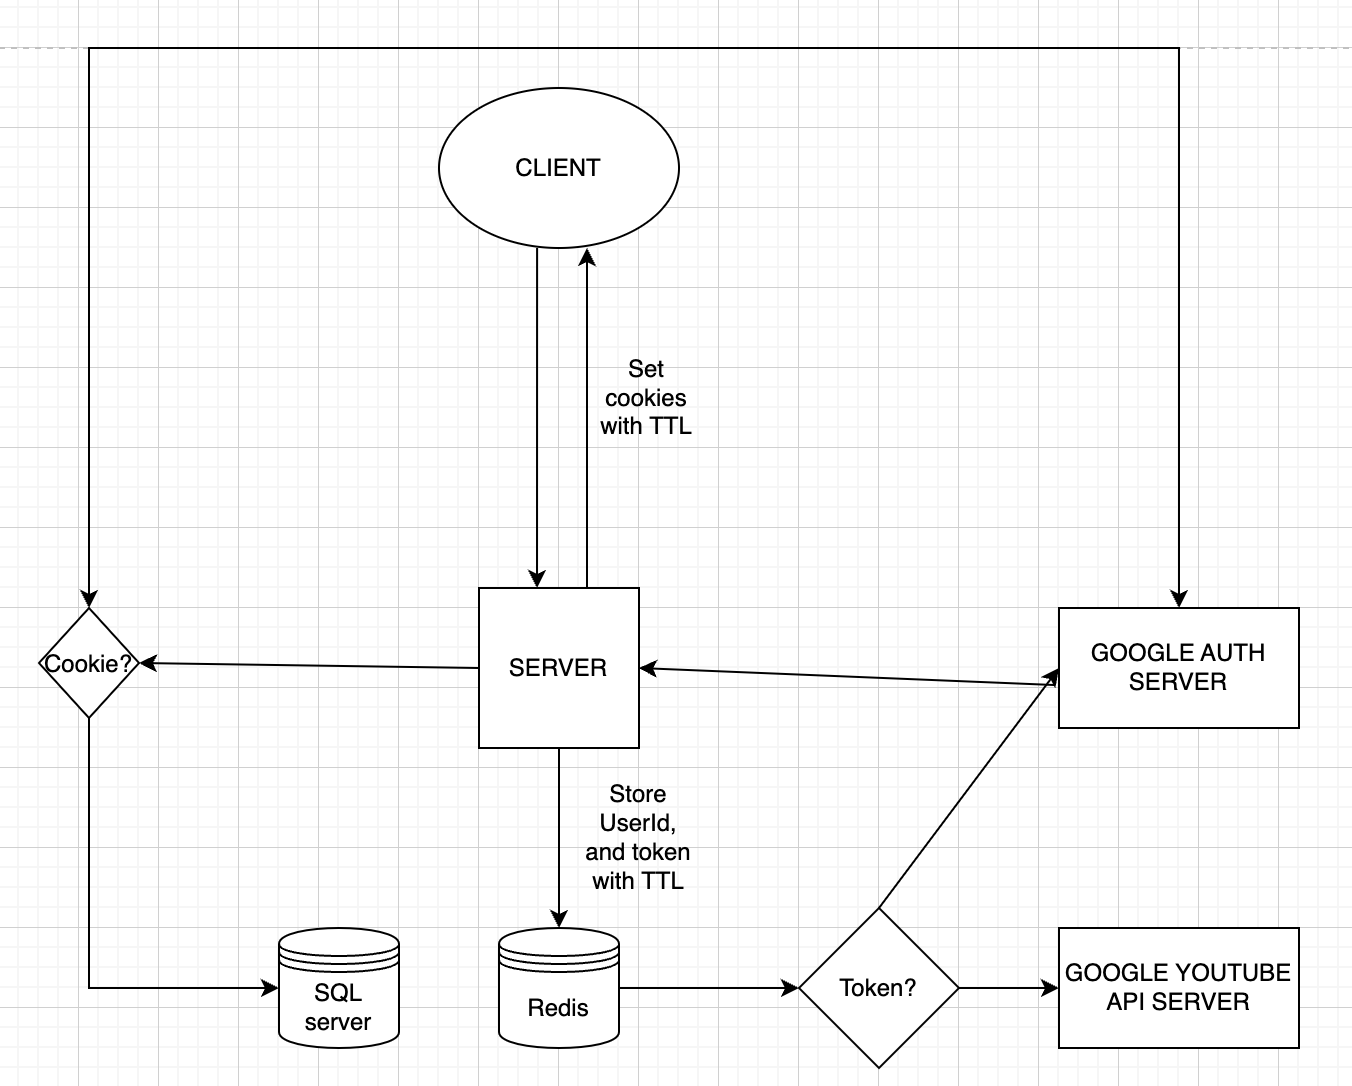
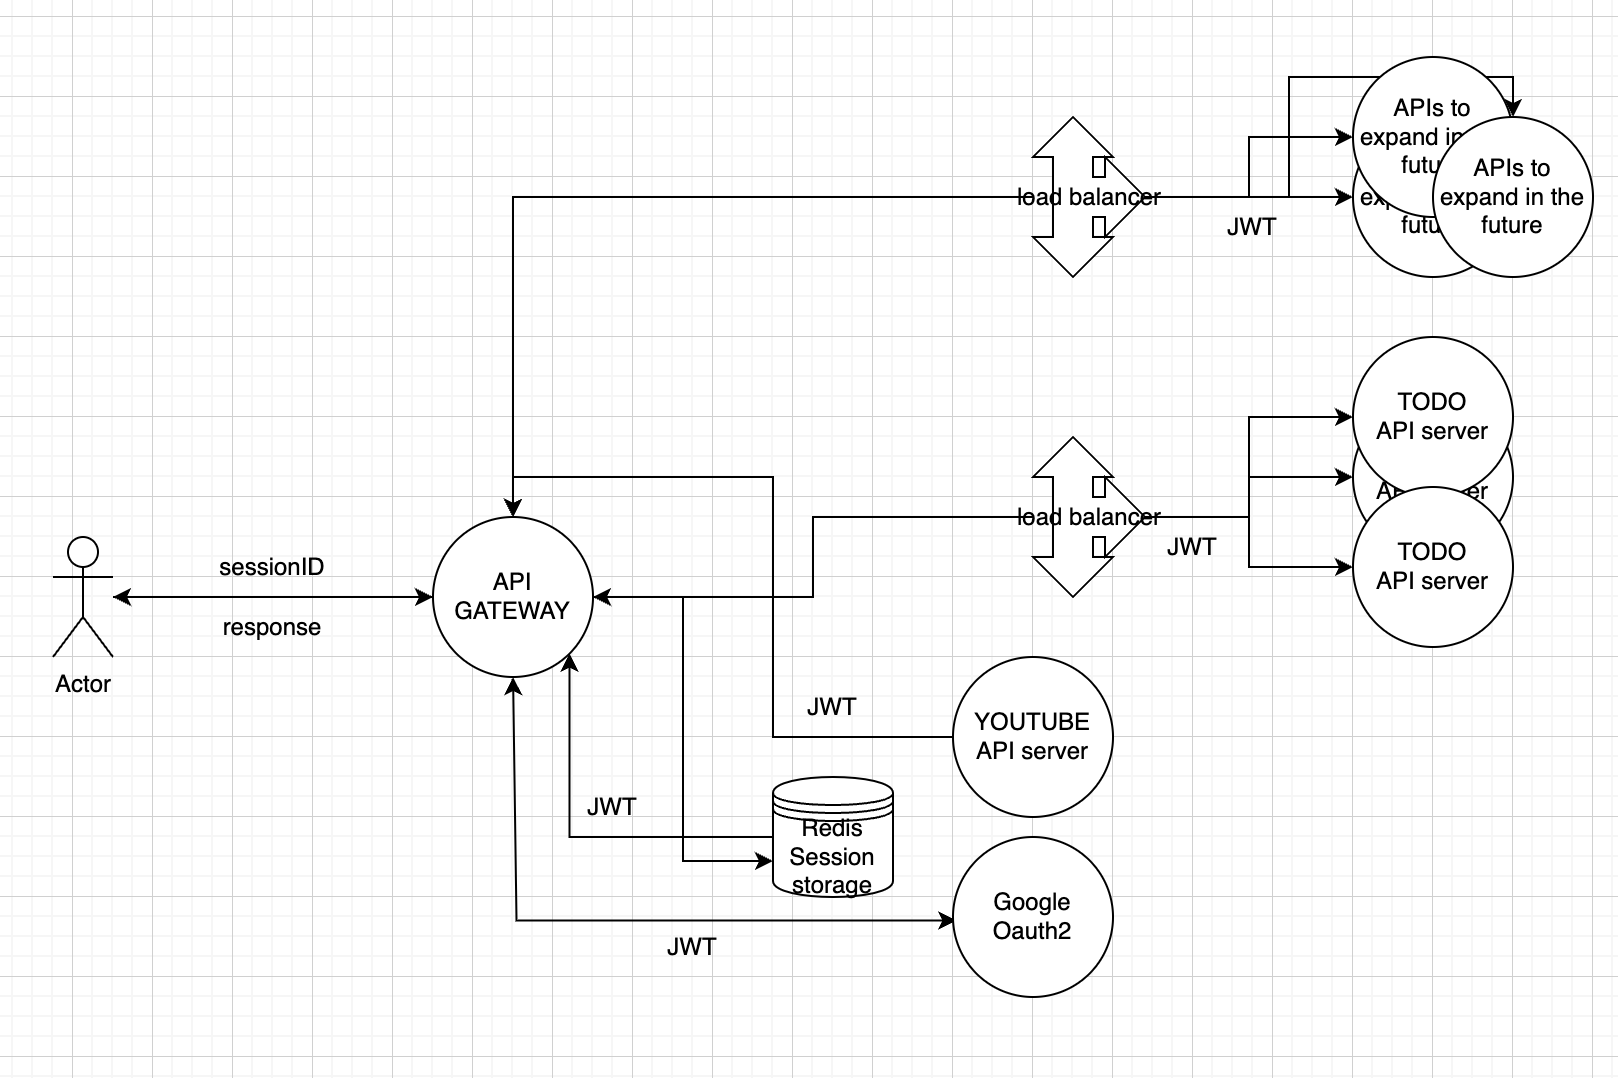
db and storage connection

diff --git a/server.go b/server.go
@@ -112,23 +112,56 @@ func main() {
 	var REDIS_HOST string = os.Getenv("REDIS_HOST")
 	// var REDIS_DB_NAME string = os.Getenv("REDIS_DB_NAME")
 	var REDIS_PASSWORD string = os.Getenv("REDIS_PASSWORD")
+
 	var SECRET string = os.Getenv("SECRET")
+	store := sessions.NewCookieStore([]byte(SECRET))
 	conf := configOauth(OAUTH_KEY, OAUTH_SECRET, OAUTH_REDIRECT_URL, ORIGIN)
 	mysqlClient, err := configSQLDB(context.Background(), MYSQL_HOST, MYSQL_USER, MYSQL_PASSWORD, MYSQL_DB)
 	if err != nil {
 		log.Fatal(err)
 	}
 	defer mysqlClient.Close()
-	server := gin.Default()
+	server := gin.New()
 
 	_redisDb := dbs.InitRedisDb(context.Background(), REDIS_HOST, REDIS_PASSWORD)
 
 	// csrf protection token generation
 	randomStr := helper.RandomString(10)
 	verifier := oauth2.GenerateVerifier()
+	server.Use(gin.Logger())
+	server.Use(gin.Recovery())
 
-	store := sessions.NewCookieStore([]byte(SECRET))
-	server.Use(middleware.AuthenticationMiddleware(store, SECRET, _redisDb))
+	authorized := server.Group("/v1/apis")
+
+	authorized.Use(middleware.AuthenticationMiddleware(store, SECRET, _redisDb))
+	{
+		authorized.GET("/todos", func(context *gin.Context) {
+			// set header
+			header := context.Request.Header
+			token, ok := context.Get("jwt_token")
+			if !ok {
+				context.JSON(http.StatusUnauthorized, gin.H{"error": "Unauthorized"})
+				context.Redirect(http.StatusTemporaryRedirect, "/oauth/google")
+				return
+			}
+			header.Set("Authorization", "Bearer: "+token.(string))
+			context.JSON(http.StatusOK, gin.H{"message": "Hello, World!"})
+		})
+		authorized.GET("/youtube", func(context *gin.Context) {
+			// set header
+			header := context.Request.Header
+			token, ok := context.Get("jwt_token")
+			if !ok {
+				context.JSON(http.StatusUnauthorized, gin.H{"error": "Unauthorized"})
+				context.Redirect(http.StatusTemporaryRedirect, "/oauth/google")
+				return
+			}
+			header.Set("Authorization", "Bearer: "+token.(string))
+			context.JSON(http.StatusOK, gin.H{"send requests to todo API": "Requesting"})
+		})
+	}
+
+	// server.Use(middleware.AuthenticationMiddleware(store, SECRET, _redisDb))
 
 	// middleware
 	// server.Use(tokenCheckMiddleware())
@@ -218,8 +251,11 @@ func GoogleOauthCallback(conf *oauth2.Config, randomStr string, verifier string,
 			context.JSON(http.StatusInternalServerError, gin.H{"error": error})
 			return
 		}
-
+		sessionID := helper.RandomString(10)
+		redisDb.SetSessionToken(context, sessionID, token)
+		context.SetCookie("session_id", sessionID, constants.TIME_MINUTES_TOKEN_EXPIRATION, "http://localhost:3000", "http://localhost:3000", false, true)
 		context.JSON(http.StatusOK, gin.H{"result": user.Email, "minutes": constants.TIME_MINUTES_TOKEN_EXPIRATION})
+
 		fmt.Println(result)
 		// fmt.Fprintf(w, "Hello, %s! Your email is %s. your name is %s, your phoneNumber is %s, your dateOfBirth is %s, your displayName is %s, your localId is %s, your verified is %t", user.Name, user.Email, user.PhoneNumber, user.DateOfBirth, user.DisplayName, user.LocalId, user.Verified)
 	}

diff --git a/middleware/authenticationMiddleware.go b/middleware/authenticationMiddleware.go
@@ -1,6 +1,7 @@
 package middleware
 
 import (
+	"fmt"
 	"net/http"
 
 	"example.com/m/v2/dbs"
@@ -10,21 +11,37 @@ import (
 
 func AuthenticationMiddleware(store *sessions.CookieStore, secret string, appRedis *dbs.AppRedis) gin.HandlerFunc {
 	return func(context *gin.Context) {
-		session, _ := store.Get(context.Request, "app_token")
-		if session.Values["token"] == nil {
+		cookies := context.Request.Cookies()
+		var session_cookie *http.Cookie
+		for _, cookie := range cookies {
+			if cookie.Name == "session_id" {
+				session_cookie = cookie
+			}
+			fmt.Println("cookie: ", cookie)
+		}
+
+		// when client doesn't have session_id cookie, induce them to login again
+		if session_cookie.Value == "" {
 			context.Redirect(http.StatusTemporaryRedirect, "/oauth/google")
 		}
 
-		issued_token, err := appRedis.GetAppToken(context.Request.Context(), session.Values["app_token"].(string))
+		// retreive JWT token from redis
+		sessions, error := store.Get(context.Request, session_cookie.Value)
+		if error != nil {
+			context.Redirect(http.StatusTemporaryRedirect, "/oauth/google")
+		}
+		fmt.Println("sessions: ", sessions)
+
+		issued_token, err := appRedis.GetSessionToken(context.Request.Context(), session_cookie.Value)
 		if err != nil {
 			/*TODO: logging*/
 			// if no token in redis, renew it
 			context.Redirect(http.StatusTemporaryRedirect, "/oauth/google")
 		}
-		session.Values["jwt_token"] = issued_token
-		session.Save(context.Request, context.Writer)
+		// session.Values["jwt_token"] = issued_token
+		// session.Save(context.Request, context.Writer)
+		context.Set("jwt_token", issued_token)
 		context.Next()
-
 	}
 
 }

diff --git a/dbs/redis.go b/dbs/redis.go
@@ -25,11 +25,11 @@ func InitRedisDb(context context.Context, DB_HOST string, DB_PASSWORD string) *A
 	})
 	return &AppRedis{Redis: redis}
 }
-func (r *AppRedis) SetAppToken(ctx context.Context, key string, token string) error {
-	return r.Redis.Set(ctx, key, token, time.Duration(TOKEN_MIN)*time.Minute).Err()
+func (r *AppRedis) SetSessionToken(ctx context.Context, key string, oauthToken *oauth2.Token) error {
+	return r.Redis.Set(ctx, key, oauthToken, time.Duration(TOKEN_MIN)*time.Minute).Err()
 }
 
-func (r *AppRedis) GetAppToken(ctx context.Context, key string) (string, error) {
+func (r *AppRedis) GetSessionToken(ctx context.Context, key string) (string, error) {
 	return r.Redis.Get(ctx, key).Result()
 }
 

diff --git a/README.md b/README.md
@@ -6,3 +6,18 @@ $ go get golang.org/x/oauth2/google
 
 
 ![system_plan.png](./system_plan.png)
+
+## System plan examplanation
+1. The users use session to communicate with server
+2. The server will use JWT tokens, to communicate with other service APIs
+3. The server will use Redis to store the session data / JWT tokens(mapping with the sessionIDs)
+4. The server will use MySQL to store the user data
+
+
+Reasons for the design:
+1. I want the system to be stateless and wanted to compose them into microservices, so scaling stays easy
+2. for previous purpose I mentioned (1), I thought using jWT tokens would be a good idea.
+3. to use JWT tokens, I had to find out a way to make the system more secure as JWT tokens never go invalid(technically you can extract user information from expired JWT tokens as it stll has not encrypted data but just encoded).
+4. So I came to the conclusion, using sessions with users, but internally using JWT tokens for other service APIs.
+5. to make the system fast, I decided to use Redis for fetching JWT tokens.
+
